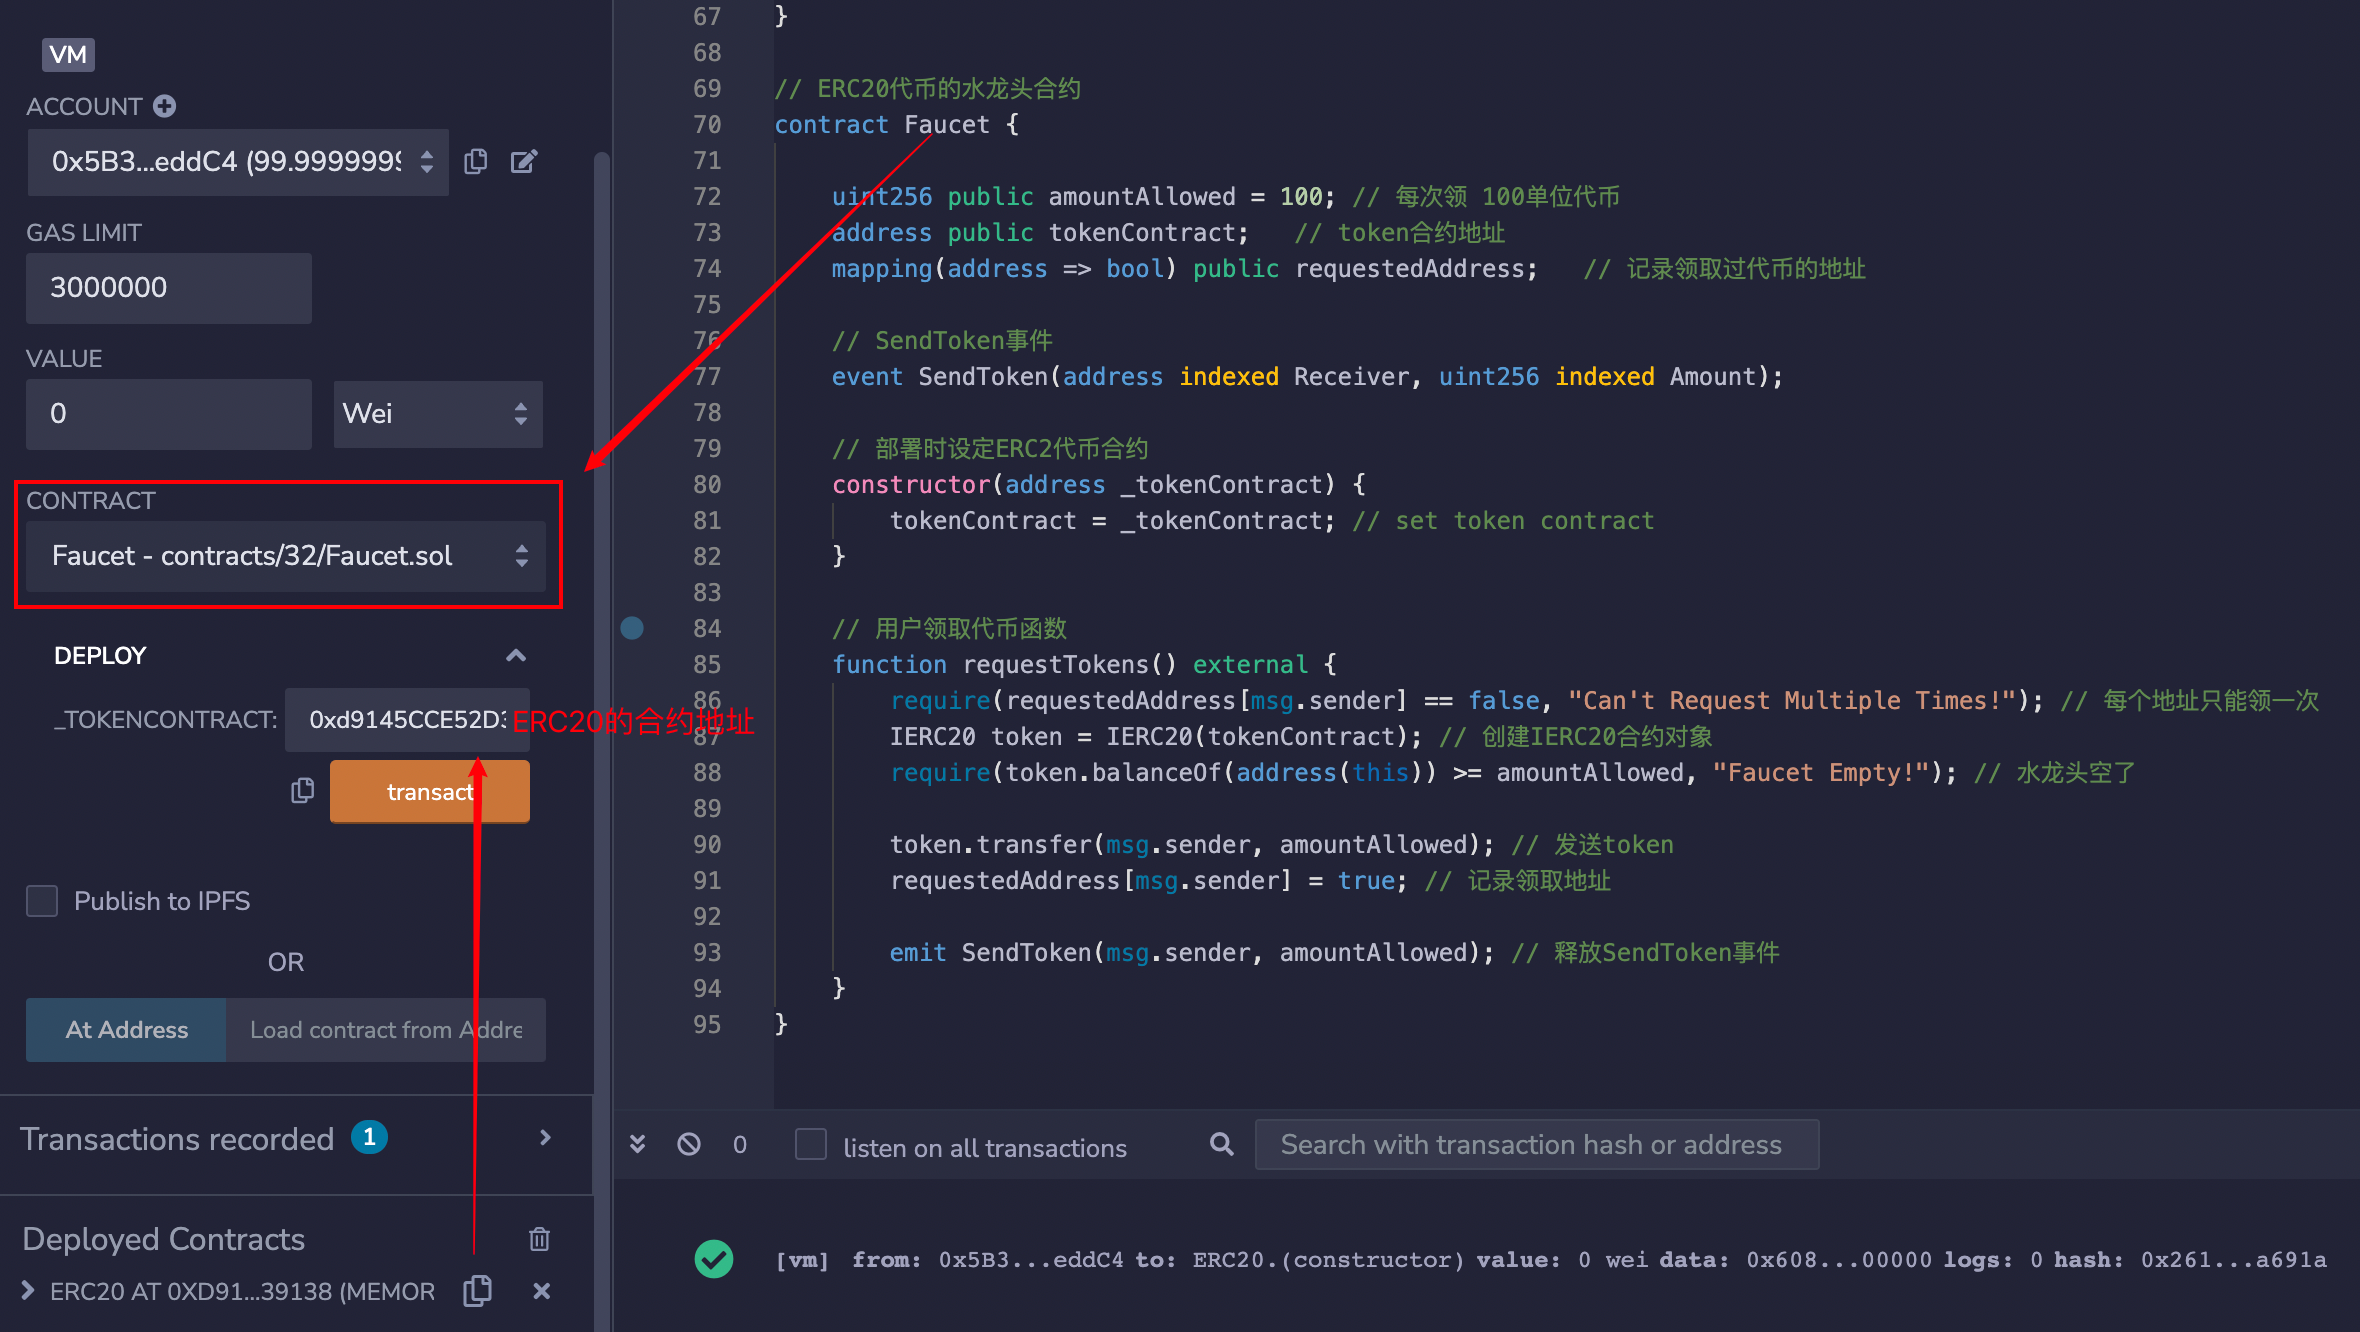
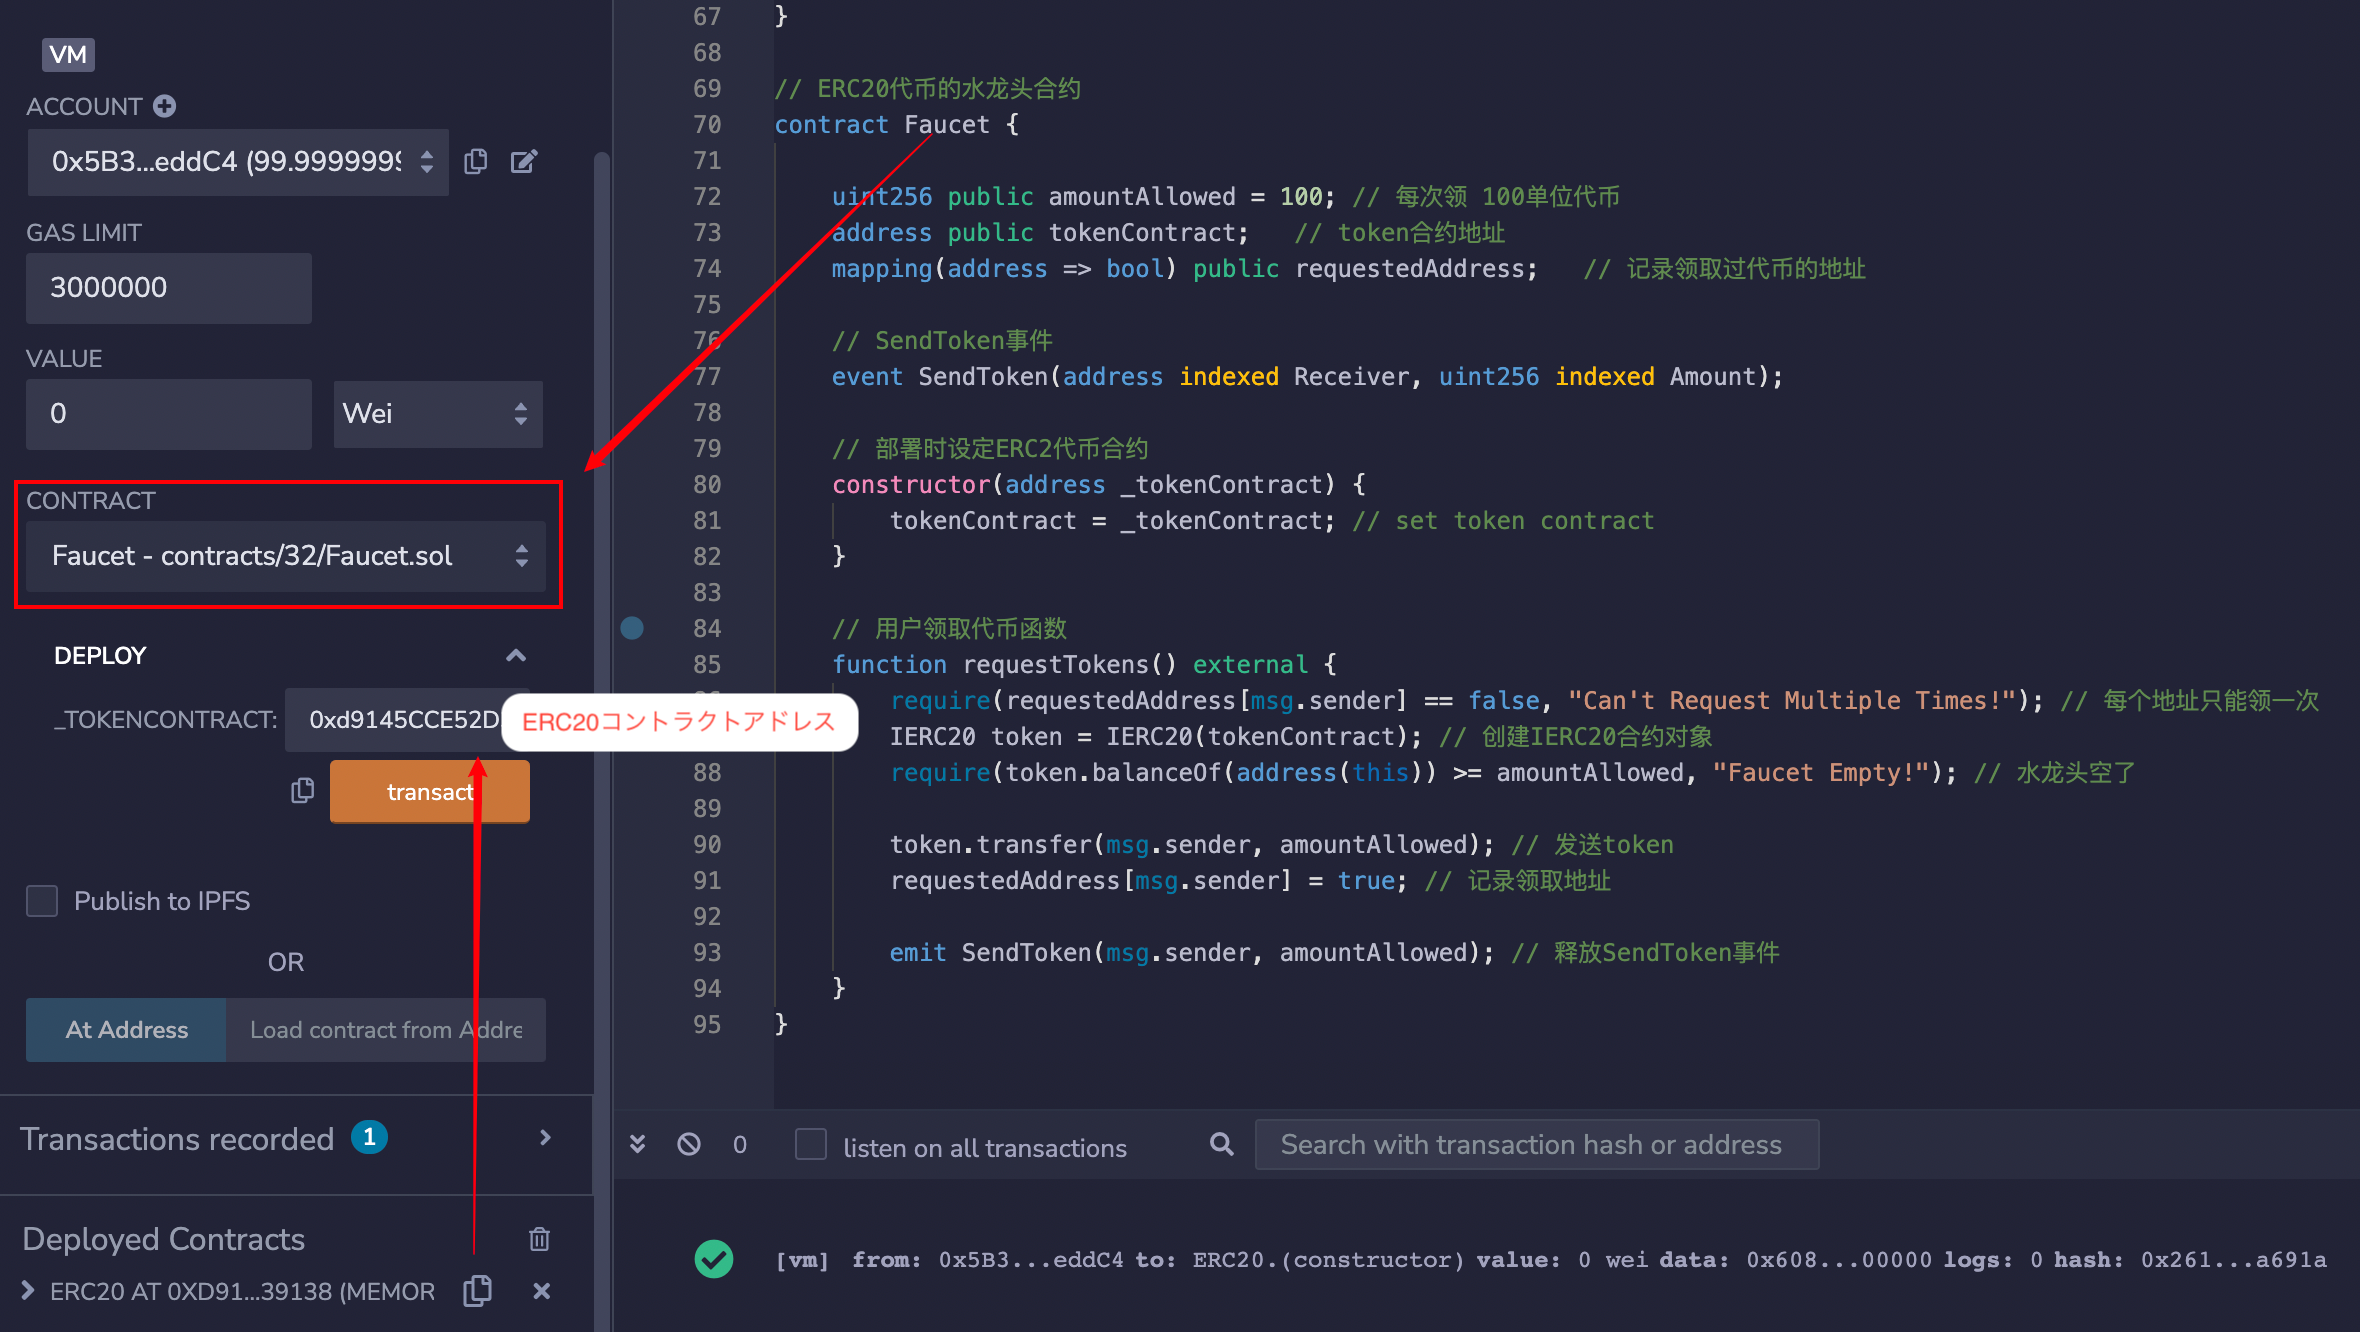
translate imgs

Changed region(s): [[0.1856, 0.5233, 0.3712, 0.5848]]

diff --git a/Languages/ja/32_Faucet_ja/readme.md b/Languages/ja/32_Faucet_ja/readme.md
@@ -28,13 +28,13 @@ tags:
 
 ## フォーセット
 
-人間が喉を乾いたときに、蛇口から水を取るように、人間が無料のトークンを欲しいときには、フォーセットに行くことができます。トークンのフォーセットとは、ユーザーが無料でトークンを受け取ることができるサイト/アプリケーションです。
+人間が喉を乾いたときに、蛇口から水を取って飲むように、人は無料のトークンが欲しいときには、フォーセットに行って受け取ることができます。トークンのフォーセットとは、ユーザーが無料でトークンを受け取ることができるウェブサイト/アプリケーションです。
 
-一番最初のトークンフォーセットはビットコイン（以下 BTC と呼ぶ）のフォーセットです。BTC からの価格は現在 3 万ドルを超えておりますが、2010 年には 0.1 ドル未満であり、保有者も少なかったです。BTC の影響力を拡大するため、ビットコインコミュニティの Gavin Andresen はビットコインフォーセットを開発し、他の人が無料でビットコインを受け取ることができるようにしました。
+一番最初のトークンフォーセットはビットコイン（以下 BTC と呼ぶ）のフォーセットです。BTC からの価格は現在 3 万ドルを超えておりますが、2010 年には 0.1 ドル未満であり、保有者も少なかったです。BTC の影響力を拡大するため、BTC コミュニティの Gavin Andresen は BTC フォーセットを開発し、他の人が無料で BTC を受け取ることができるようにしました。
 
-人々はフォーセットを利用してビットコインを受け取りました。ただで貰えるものはみんな好きなんです。一部の人達は BTC の信者となりました。
+人々はフォーセットを利用して BTC を受け取りました。ただで貰えるものはみんな好きなんです。一部の人達は BTC の信者となりました。
 
-フォーセットは 1 万 9700 ビットコイン以上を送り出し、現在の価値だと約 6 億ドルです！
+フォーセットは 1 万 9700 BTC 以上を送り出し、現在の価値だと約 6 億ドルです！
 
 ## ERC20 フォーセット
 
